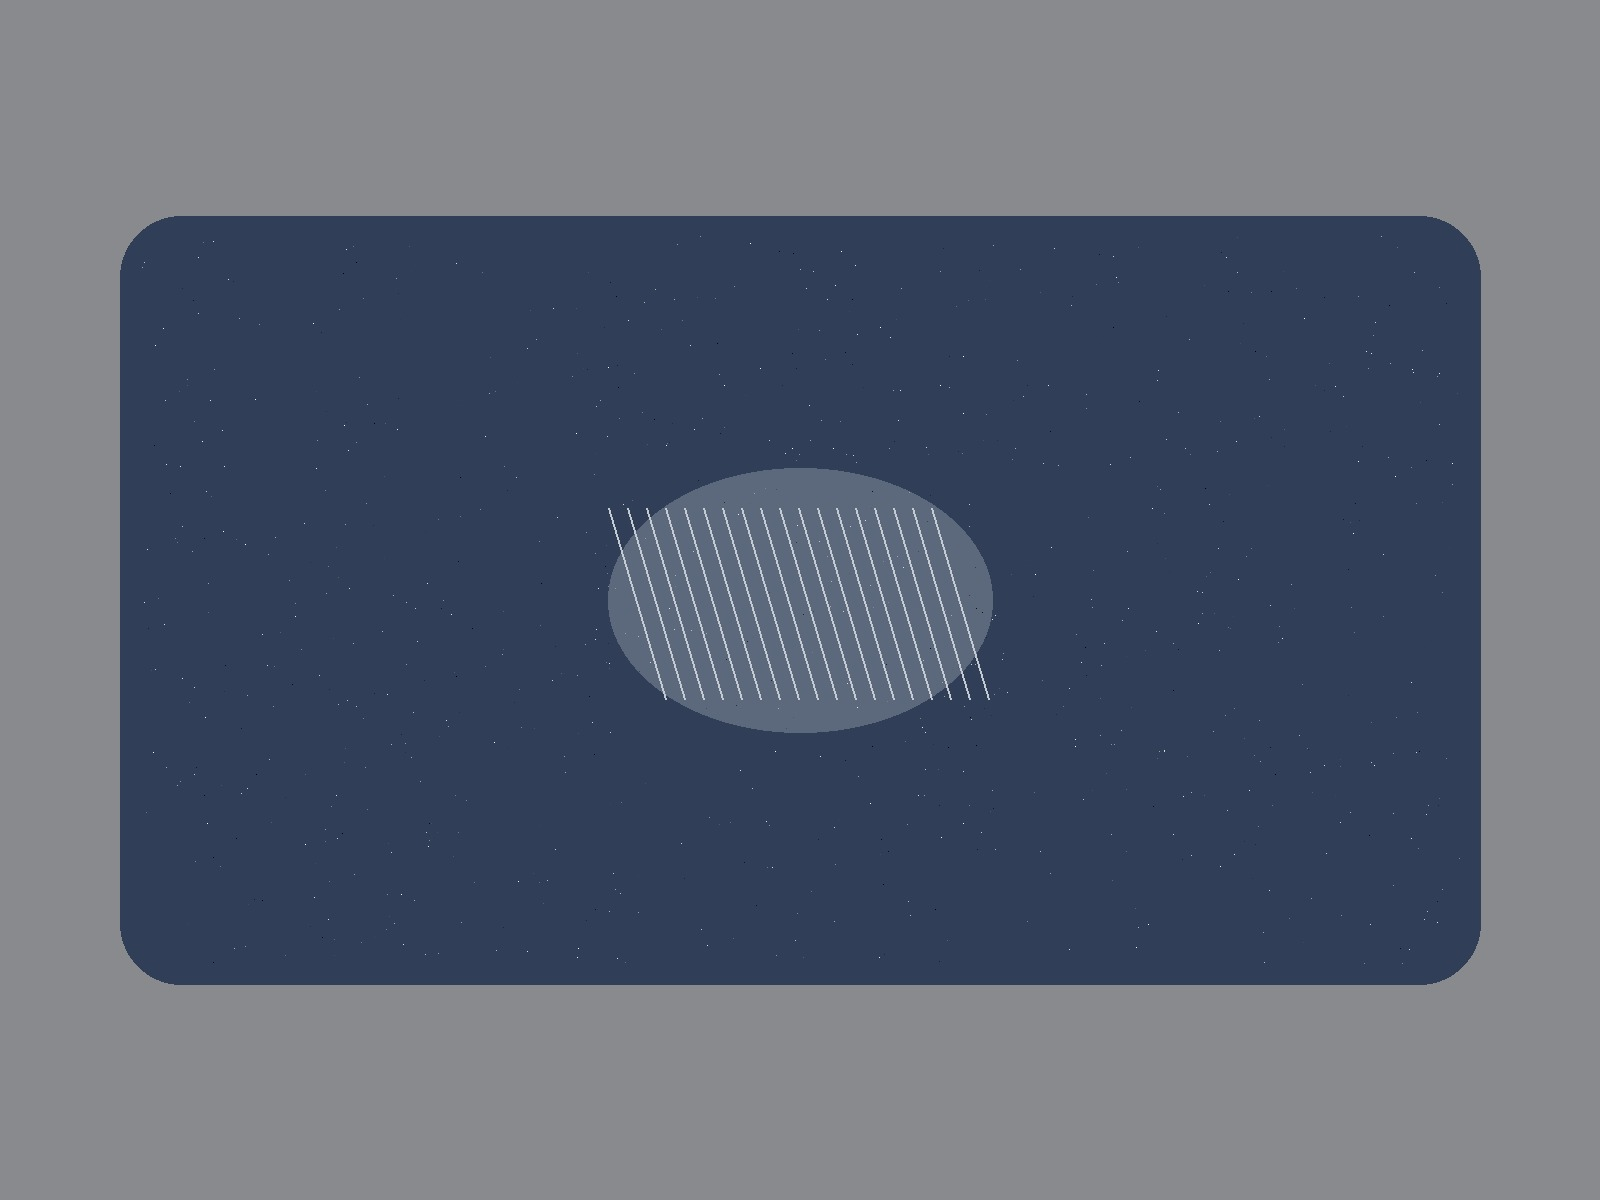
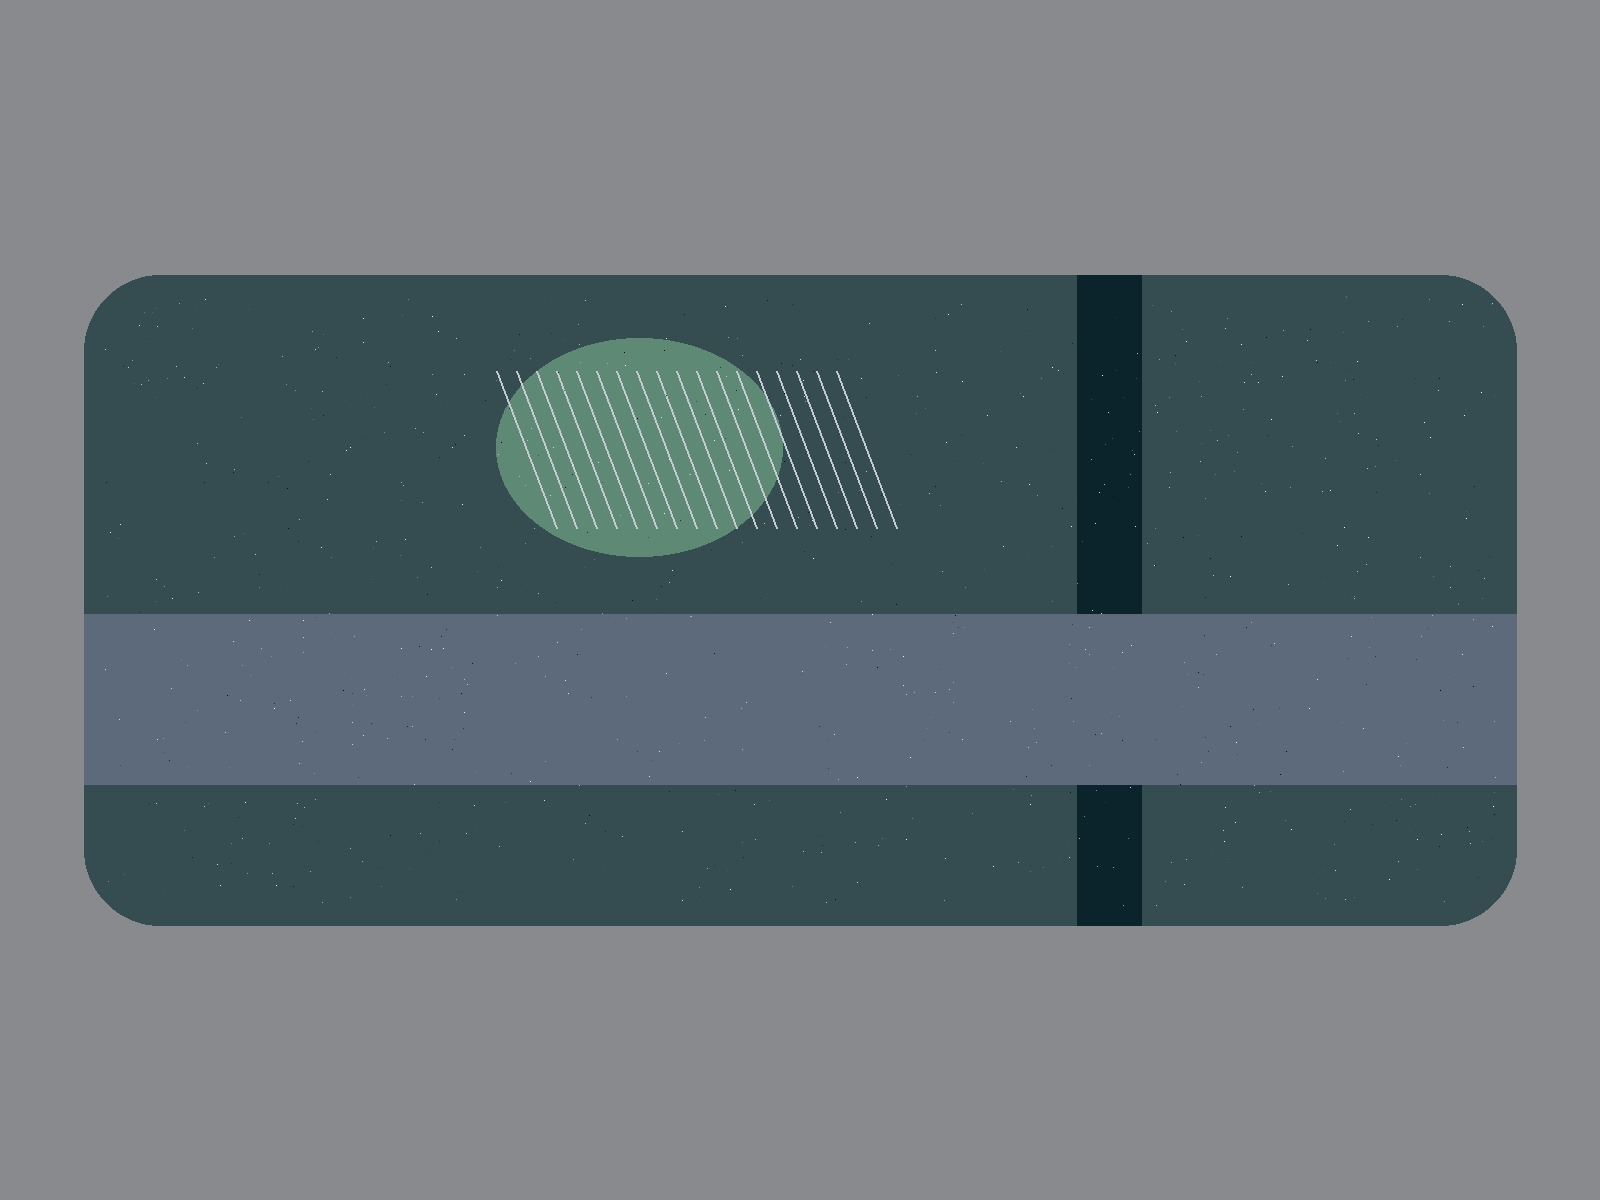
Stop the sample photographs colliding, and keep blends out of the floor
TWO DEFECTS, BOTH INVISIBLE UNTIL THE DEMO.

1. EVERY SYNTHETIC SAMPLE HASHED THE SAME.

make_samples.py drew all fourteen files from one composition and varied only
a random speckle pattern. A perceptual hash reads an image's coarse
luminance layout and ignores fine detail, which is the whole point of one,
so speckle moved nothing: 42 of 136 sample pairs fell inside the duplicate
threshold and bad_blurry.jpg and stale_timestamp.jpg were at distance ZERO.

The authenticity screen flags a photo that is near-identical to one already
recorded against a different claim. With everything colliding, it fired on
whichever scripted claim was opened second, third or fourth, purely as a
function of click order. The Camry picked up a fraud flag it was never meant
to have, taking it from 0.60 to 0.40 and from starting point to low
confidence, against the worked example printed in the PRD.

Each claim's photographs now get their own scene: different panel geometry,
damage position, scratch direction and tonal bands. Closest cross-claim pair
is now 12 against a threshold of 8. Within a claim the images stay alike,
which is right, since three angles of one dent should look alike, and the
screen skips same-claim comparisons anyway.

2. A BLEND WAS SETTING THE CLAIM'S CONFIDENCE.

A blend is paint on an adjacent UNDAMAGED panel so the refinished panel next
to it does not show a hard edge. Its confidence is a judgement about colour
[…]

Changed region(s): [[0.0312, 0.1542, 0.9688, 0.8325]]

diff --git a/samples/make_samples.py b/samples/make_samples.py
@@ -3,71 +3,147 @@
 These are NOT car damage photos. They exist so the pipeline runs end to end
 with zero setup, and so the quality gate can be demonstrated failing for real
 reasons (measured sharpness, brightness and resolution) rather than simulated
-ones. Replace them with real photographs for the recorded demo.
+ones. The real photographs in this folder are used for the recorded demo.
+
+WHY EACH CLAIM GETS ITS OWN COMPOSITION
+---------------------------------------
+A perceptual hash is a signature of an image's LOW-FREQUENCY LUMINANCE LAYOUT:
+where the light and dark regions sit, at roughly 32x32 resolution. It ignores
+fine detail almost entirely, which is the whole point, since that is what makes
+it survive resizing and recompression.
+
+The first version of this file drew every sample from one composition and
+varied only a random speckle pattern. Speckle is high-frequency, so it does not
+move the hash at all. The result was that all fourteen synthetic files hashed
+to within the duplicate threshold of one another, and two of them were at
+distance ZERO.
+
+The authenticity screen flags a photo when it is near-identical to one already
+recorded against a DIFFERENT claim. With every sample colliding, the flag fired
+on whichever scripted claim was opened second, third and fourth, purely as a
+function of click order. That put a fraud flag on the Camry and dropped its
+confidence from 0.60 to 0.40, contradicting the worked example in the PRD.
+
+So each claim's photographs now get their own SCENE: a different panel
+geometry, damage position, hatch direction and tonal layout. Within a claim the
+images stay similar, which is correct, because three angles of one dent should
+look alike, and the screen skips same-claim comparisons anyway.
+
+ui_test.py asserts that no two samples belonging to different claims fall
+within the duplicate threshold, so this cannot silently come back.
 """
-import os, random
+import os
+import random
 from datetime import datetime, timedelta
+
 from PIL import Image, ImageDraw, ImageFilter
 
 HERE = os.path.dirname(os.path.abspath(__file__))
-random.seed(7)
 
-def base_image(w=1600, h=1200, bg=(120, 125, 132)):
+
+def scene(seed: int, w=1600, h=1200, bg=(120, 125, 132)):
+    """One composition. The same seed always yields the same layout.
+
+    Everything varied here is large-scale on purpose: panel position and size,
+    where the damage sits, which way the scratches run, and where the broad
+    light and dark bands fall. Those are the things a perceptual hash actually
+    sees.
+    """
+    rng = random.Random(seed)
     img = Image.new("RGB", (w, h), bg)
     d = ImageDraw.Draw(img)
-    mx, my = int(w * 0.075), int(h * 0.18)
-    # crude "vehicle panel" with a damage region, enough to carry real edges
-    d.rounded_rectangle([mx, my, w - mx, h - my], radius=max(8, w // 26), fill=(48, 62, 88))
-    rx, ry = int(w * 0.12), int(h * 0.11)
-    d.ellipse([w//2-rx, h//2-ry, w//2+rx, h//2+ry], fill=(92, 104, 124))
-    for _ in range(900):
-        x = random.randint(mx + 20, w - mx - 20); y = random.randint(my + 20, h - my - 20)
-        d.point((x, y), fill=(random.randint(0,255),)*3)
-    step = max(4, rx // 10)
-    for i in range(18):
-        x0 = w//2 - rx + i * step
-        d.line([(x0, h//2 - int(ry*0.7)), (x0 + step*3, h//2 + int(ry*0.75))],
+
+    # Panel: position and proportions differ per scene.
+    mx = int(w * rng.uniform(0.05, 0.16))
+    my = int(h * rng.uniform(0.12, 0.26))
+    panel = (rng.randint(36, 74), rng.randint(52, 96), rng.randint(74, 128))
+    d.rounded_rectangle([mx, my, w - mx, h - my],
+                        radius=max(8, w // rng.randint(18, 34)), fill=panel)
+
+    # Broad tonal bands. These carry most of the hash, so their orientation and
+    # placement are what actually separates one scene from another.
+    for _ in range(rng.randint(2, 4)):
+        if rng.random() < 0.5:
+            y0 = rng.randint(my, h - my - 80)
+            d.rectangle([mx, y0, w - mx, y0 + rng.randint(60, 190)],
+                        fill=tuple(min(255, c + rng.randint(22, 58)) for c in panel))
+        else:
+            x0 = rng.randint(mx, w - mx - 80)
+            d.rectangle([x0, my, x0 + rng.randint(60, 190), h - my],
+                        fill=tuple(max(0, c - rng.randint(18, 46)) for c in panel))
+
+    # Damage region, placed away from centre so scenes do not converge.
+    cx = int(w * rng.uniform(0.28, 0.72))
+    cy = int(h * rng.uniform(0.32, 0.68))
+    rx, ry = int(w * rng.uniform(0.08, 0.17)), int(h * rng.uniform(0.07, 0.15))
+    d.ellipse([cx - rx, cy - ry, cx + rx, cy + ry],
+              fill=tuple(min(255, c + rng.randint(30, 70)) for c in panel))
+
+    # Scratches. Direction flips per scene, which moves the hash further.
+    step = max(4, rx // rng.randint(6, 12))
+    down = rng.random() < 0.5
+    for i in range(rng.randint(12, 24)):
+        x0 = cx - rx + i * step
+        y0 = cy - int(ry * 0.7) if down else cy + int(ry * 0.7)
+        y1 = cy + int(ry * 0.75) if down else cy - int(ry * 0.75)
+        d.line([(x0, y0), (x0 + step * 3, y1)],
                fill=(196, 202, 210), width=max(1, w // 800))
+
+    # Fine speckle. Gives the sharpness measure real edges to find. It does not
+    # affect the perceptual hash, which is exactly why it cannot be relied on
+    # to separate scenes.
+    for _ in range(900):
+        x = rng.randint(mx + 20, w - mx - 20)
+        y = rng.randint(my + 20, h - my - 20)
+        d.point((x, y), fill=(rng.randint(0, 255),) * 3)
+
     return img
+
 
 def save(img, name, exif_dt=None):
     path = os.path.join(HERE, name)
     kwargs = {"quality": 92}
     if exif_dt:
         ex = Image.Exif()
-        ex[271] = "DemoPhone"          # Make
-        ex[272] = "Model X"            # Model
-        ex[306] = exif_dt.strftime("%Y:%m:%d %H:%M:%S")   # DateTime
-        ex[36867] = exif_dt.strftime("%Y:%m:%d %H:%M:%S") # DateTimeOriginal
+        ex[271] = "DemoPhone"                              # Make
+        ex[272] = "Model X"                                # Model
+        ex[306] = exif_dt.strftime("%Y:%m:%d %H:%M:%S")    # DateTime
+        ex[36867] = exif_dt.strftime("%Y:%m:%d %H:%M:%S")  # DateTimeOriginal
         kwargs["exif"] = ex
     img.save(path, **kwargs)
     return path
 
-# 1. Good photos for the clean path (CLM-1001)
+
+# Seeds are spread widely and chosen so that the resulting scenes clear the
+# duplicate threshold against every other claim's set. ui_test.py verifies it.
+SEED_GOOD, SEED_BAD, SEED_BUMPER, SEED_STALE = 101, 233, 419, 577
+
+# 1. Good photos for the clean path (fallback set)
 for i, ang in enumerate(["a", "b", "c"], 1):
-    save(base_image(), f"good_{ang}.jpg",
+    save(scene(SEED_GOOD + i), f"good_{ang}.jpg",
          exif_dt=datetime(2026, 9, 14, 14, 20) + timedelta(minutes=i))
 
-# 2. Blurry -> fails sharpness (CLM-1002)
-save(base_image().filter(ImageFilter.GaussianBlur(7)), "bad_blurry.jpg",
+# 2. Blurry -> fails sharpness (CLM-1002 attempt 1)
+save(scene(SEED_BAD).filter(ImageFilter.GaussianBlur(7)), "bad_blurry.jpg",
      exif_dt=datetime(2026, 9, 20, 11, 5))
 
-# 3. Dark -> fails brightness (CLM-1002)
-save(base_image(bg=(14, 15, 18)).point(lambda p: int(p * 0.16)), "bad_dark.jpg",
-     exif_dt=datetime(2026, 9, 20, 22, 40))
+# 3. Dark -> fails brightness (CLM-1002 attempt 1)
+save(scene(SEED_BAD + 1, bg=(14, 15, 18)).point(lambda p: int(p * 0.16)),
+     "bad_dark.jpg", exif_dt=datetime(2026, 9, 20, 22, 40))
 
-# 4. Low resolution -> fails resolution (CLM-1002)
-save(base_image(520, 390), "bad_lowres.jpg", exif_dt=datetime(2026, 9, 20, 11, 9))
+# 4. Low resolution -> fails resolution (CLM-1002 attempt 1)
+save(scene(SEED_BAD + 2, 520, 390), "bad_lowres.jpg",
+     exif_dt=datetime(2026, 9, 20, 11, 9))
 
 # 5. Bumper photos for the ADAS surprise (CLM-1003)
 for i, ang in enumerate(["a", "b", "c"], 1):
-    save(base_image(bg=(136, 138, 142)), f"bumper_{ang}.jpg",
+    save(scene(SEED_BUMPER + i, bg=(136, 138, 142)), f"bumper_{ang}.jpg",
          exif_dt=datetime(2026, 9, 18, 16, 10) + timedelta(minutes=i))
 
 # 6. Capture time PREDATES the loss -> authenticity flag (CLM-1004, loss 2026-09-22)
-save(base_image(bg=(128, 130, 136)), "stale_timestamp.jpg",
+save(scene(SEED_STALE, bg=(128, 130, 136)), "stale_timestamp.jpg",
      exif_dt=datetime(2026, 8, 30, 9, 15))
-save(base_image(bg=(128, 130, 136)), "stale_timestamp_2.jpg",
+save(scene(SEED_STALE + 1, bg=(128, 130, 136)), "stale_timestamp_2.jpg",
      exif_dt=datetime(2026, 8, 30, 9, 17))
 
 print("Generated:")

diff --git a/ui_test.py b/ui_test.py
@@ -304,6 +304,144 @@ else:
     print(f"[ OK ] navigator  weighted {_b.claim_confidence:.2f} / "
           f"anchored {min(_sig):.2f}, both verify")
 
+# --------------------------------------------------------------------------
+# A blend is paint on an UNDAMAGED adjacent panel for colour match, so it must
+# never set the claim's confidence. CLM-1001 is the case that proves it: its
+# blend line is the lowest-confidence line in the estimate and the cheapest.
+# --------------------------------------------------------------------------
+
+_m = _run.run("CLM-1001",
+              ["samples/mazda6_front.jpg", "samples/mazda6_corner.jpg",
+               "samples/mazda6_damage.jpg"], attempt=1, user_photos=False)
+_items = _m.assessment.line_items
+_blends = [li for li in _items if li.operation.lower() == "blend"]
+_real = [li for li in _items if li.operation.lower() != "blend"]
+
+if not _blends:
+    print("[FAIL] blend: CLM-1001 has no blend line, so this proves nothing")
+    fails += 1
+elif min(li.confidence for li in _blends) >= min(li.confidence for li in _real):
+    print("[FAIL] blend: the blend is no longer the weakest line, so this "
+          "test has stopped testing anything")
+    fails += 1
+elif _m.confidence.line_item_floor != min(li.confidence for li in _real):
+    print(f"[FAIL] blend: floor is {_m.confidence.line_item_floor}, expected "
+          f"{min(li.confidence for li in _real)} (blend excluded)")
+    fails += 1
+else:
+    print(f"[ OK ] blend    floor {_m.confidence.line_item_floor:.2f} from "
+          f"damage lines, not the {min(li.confidence for li in _blends):.2f} blend")
+
+# A blend-only estimate must not score 1.00 by scoring nothing at all.
+from pipeline import confidence as _conf  # noqa: E402
+from pipeline.models import Assessment, LineItem  # noqa: E402
+
+_only = Assessment(line_items=[
+    LineItem(operation="blend", part="left front fender",
+             panel="left_front_fender", damage_type="", severity="",
+             reasoning="", confidence=0.55),
+])
+_b2 = _conf.compute(_only, 1.0, 1.0, 1.0, [], [])
+if _b2.line_item_floor != 0.55:
+    print(f"[FAIL] blend: blend-only estimate scored floor "
+          f"{_b2.line_item_floor}, expected the 0.55 fallback")
+    fails += 1
+else:
+    print("[ OK ] blend    blend-only estimate falls back to the full set")
+
+
+# --------------------------------------------------------------------------
+# Sample photographs belonging to DIFFERENT claims must not be near-identical.
+#
+# A perceptual hash reads only an image's coarse luminance layout, so synthetic
+# samples that share a composition hash alike no matter how much fine detail
+# differs. When that happened, the authenticity screen flagged whichever
+# scripted claim was opened second as a reused photograph, purely as a function
+# of click order, and it dropped the Camry from 0.60 to 0.40 against the worked
+# example in the PRD.
+#
+# This is invisible in ordinary use and only shows up on stage, so it is
+# asserted rather than trusted.
+# --------------------------------------------------------------------------
+
+import itertools  # noqa: E402
+import os  # noqa: E402
+
+from pipeline import imaging as _img  # noqa: E402
+from config import PHASH_DUPLICATE_DISTANCE  # noqa: E402
+
+_CLAIM_OF = {
+    **{f"mazda6_{n}.jpg": "CLM-1001" for n in ("front", "corner", "damage")},
+    **{f"bad_{n}.jpg": "CLM-1002" for n in ("blurry", "dark", "lowres")},
+    **{f"navigator_wheel_{n}.jpg": "CLM-1002" for n in
+       ("closeup", "angle", "context")},
+    **{f"bumper_{a}.jpg": "CLM-1003" for a in "abc"},
+    "stale_timestamp.jpg": "CLM-1004",
+    "stale_timestamp_2.jpg": "CLM-1004",
+    **{f"good_{a}.jpg": "shared" for a in "abc"},
+}
+
+_samples = sorted(f for f in os.listdir("samples") if f.endswith(".jpg"))
+_hashes = {f: _img.measure(os.path.join("samples", f))["perceptual_hash"]
+           for f in _samples}
+
+_unowned = [f for f in _samples if f not in _CLAIM_OF]
+_clashes = []
+_closest = 999
+for _a, _b in itertools.combinations(_samples, 2):
+    if _CLAIM_OF.get(_a, _a) == _CLAIM_OF.get(_b, _b):
+        continue                      # same claim: three angles should look alike
+    _d = _img.hamming(_hashes[_a], _hashes[_b])
+    _closest = min(_closest, _d)
+    if _d <= PHASH_DUPLICATE_DISTANCE:
+        _clashes.append((_d, _a, _b))
+
+if _unowned:
+    print(f"[FAIL] samples: {_unowned} are not assigned to a claim in this "
+          f"test, so they are not being checked")
+    fails += 1
+elif _clashes:
+    print(f"[FAIL] samples: {len(_clashes)} cross-claim pair(s) within the "
+          f"duplicate threshold of {PHASH_DUPLICATE_DISTANCE}:")
+    for _d, _a, _b in _clashes[:5]:
+        print(f"         {_d:2d}  {_a} / {_b}")
+    fails += 1
+else:
+    print(f"[ OK ] samples  no cross-claim collisions, closest pair "
+          f"{_closest} vs threshold {PHASH_DUPLICATE_DISTANCE}")
+
+
+# --------------------------------------------------------------------------
+# The Camry is the PRD's worked example, so its numbers are pinned to the
+# document: three line items, the sensor line weakest at 0.71, the ADAS penalty
+# applied, and nothing else. It must resolve to 0.60 and route as a starting
+# point, from a clean ledger.
+# --------------------------------------------------------------------------
+
+import config as _cfg  # noqa: E402
+
+if os.path.exists(_cfg.PHASH_LEDGER):
+    os.remove(_cfg.PHASH_LEDGER)
+
+_c = _run.run("CLM-1003", [f"samples/bumper_{a}.jpg" for a in "abc"],
+              attempt=1, user_photos=False)
+_cb = _c.confidence
+if round(_cb.claim_confidence, 2) != 0.60:
+    print(f"[FAIL] camry: confidence {_cb.claim_confidence:.2f}, PRD says 0.60")
+    fails += 1
+elif _c.decision.tier != "starting_point":
+    print(f"[FAIL] camry: tier {_c.decision.tier}, PRD says starting point")
+    fails += 1
+elif _cb.authenticity_penalty:
+    print(f"[FAIL] camry: an authenticity penalty of "
+          f"{_cb.authenticity_penalty:.2f} was applied; the worked example "
+          f"has only the ADAS penalty")
+    fails += 1
+else:
+    print(f"[ OK ] camry    {_cb.claim_confidence:.2f} starting point, "
+          f"ADAS penalty only, matching the PRD")
+
+
 # A good score must not be unconditional: bad files still fail the checks.
 _bad = _run.run("CLM-1002", ["samples/bad_blurry.jpg", "samples/bad_dark.jpg"],
                 attempt=2, user_photos=True)

diff --git a/pipeline/confidence.py b/pipeline/confidence.py
@@ -53,13 +53,48 @@ def compute(
     explanation: list[str] = []
 
     # --- Base: weighted blend, anchored on the weakest line -------------
-    if assessment.line_items:
-        floor = min(li.confidence for li in assessment.line_items)
-        weakest = min(assessment.line_items, key=lambda li: li.confidence)
+    #
+    # BLEND LINES ARE EXCLUDED FROM THE FLOOR.
+    #
+    # A 'blend' names an ADJACENT UNDAMAGED panel that gets paint only so the
+    # refinished panel next to it does not show a hard edge. Its confidence is
+    # a judgement about colour match, not about the damage.
+    #
+    # Left in, it routinely becomes the weakest line and sets the confidence
+    # for the whole claim. On CLM-1001 the blend sits at 0.86 and carries
+    # $80.60 of a $1,061.20 estimate, while the $831.80 bumper replacement at
+    # 0.90 has no influence at all. The score would then be governed by the
+    # least consequential line in the file.
+    #
+    # The asymmetry is the justification. A wrong blend call costs an $80 paint
+    # operation that a shop corrects without a supplement. A wrong replace call
+    # is the kind of error this product exists to catch.
+    #
+    # run.py already excludes blends from the panel set fed to retrieval
+    # density, for the same underlying reason: a blend names a panel that is
+    # not damaged. This makes the two treatments consistent.
+    scoring_items = [li for li in assessment.line_items
+                     if li.operation.lower() != "blend"]
+
+    # An estimate of nothing but blends should not score 1.0 by default, so
+    # fall back to the full set rather than to an empty one.
+    if not scoring_items:
+        scoring_items = list(assessment.line_items)
+
+    if scoring_items:
+        floor = min(li.confidence for li in scoring_items)
+        weakest = min(scoring_items, key=lambda li: li.confidence)
+        excluded = len(assessment.line_items) - len(scoring_items)
+        note = (
+            f" {excluded} blend line(s) excluded: a blend is paint on an "
+            f"undamaged panel for colour match, so its confidence is not a "
+            f"judgement about the damage."
+            if excluded else ""
+        )
         explanation.append(
             f"Weakest line item is '{weakest.operation} {weakest.part}' at "
             f"{floor:.2f}. Claim confidence is anchored here rather than on the "
-            f"average, because one wrong line ruins an estimate."
+            f"average, because one wrong line ruins an estimate.{note}"
         )
     else:
         floor = 0.0

diff --git a/app.py b/app.py
@@ -145,7 +145,11 @@ HELP_LINE_ITEM_FLOOR = (
     "The claim is anchored on the lowest of them rather than the average. Ten "
     "lines at 0.90 and one at 0.60 is not a 0.87 claim, because one wrong line "
     "ruins an estimate, and the weak line is usually the sensor or structural "
-    "item that generates the supplement."
+    "item that generates the supplement.\n\n"
+    "Blend lines are excluded. A blend is paint applied to an adjacent "
+    "undamaged panel so the refinished panel beside it does not show a hard "
+    "edge, so its confidence is a judgement about colour match rather than "
+    "about the damage."
 )
 
 HELP_EVIDENCE_COVERAGE = (
